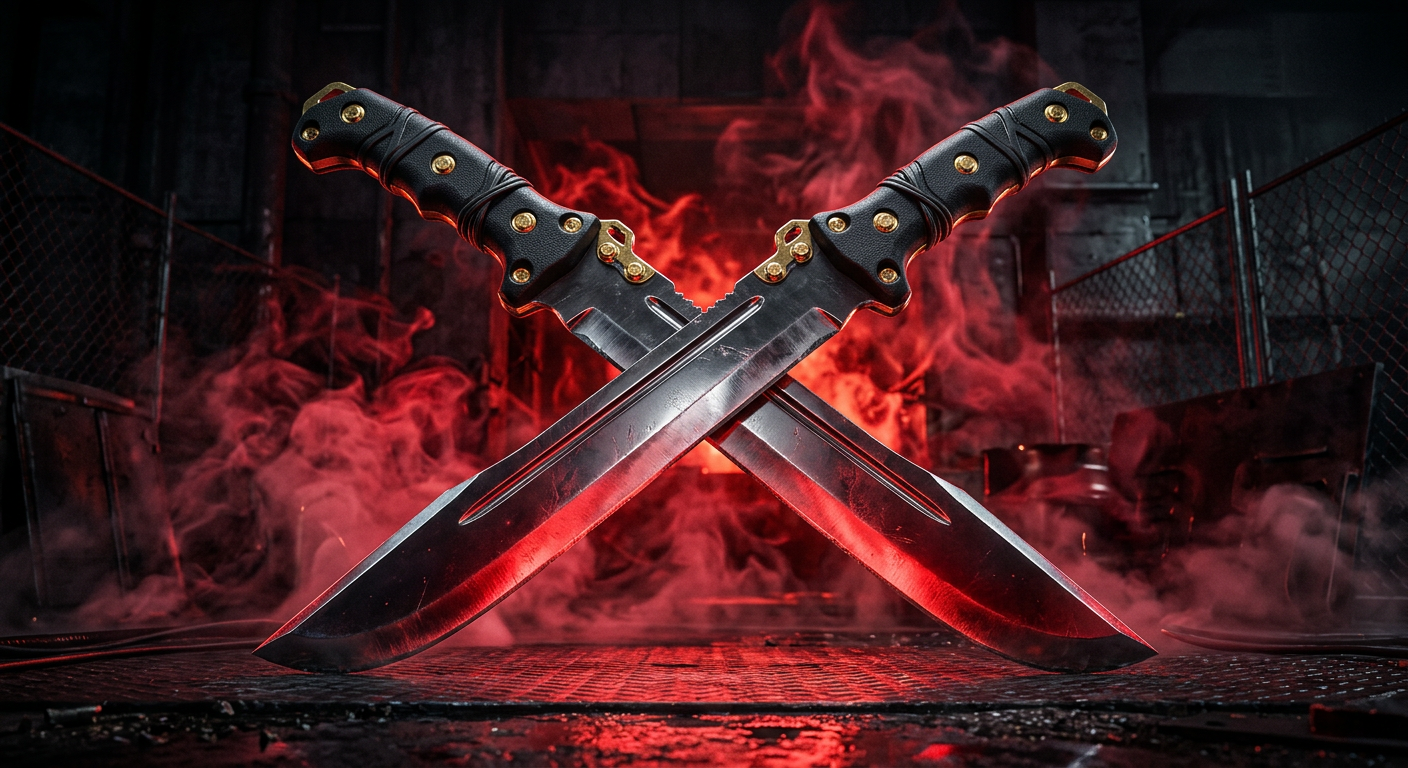
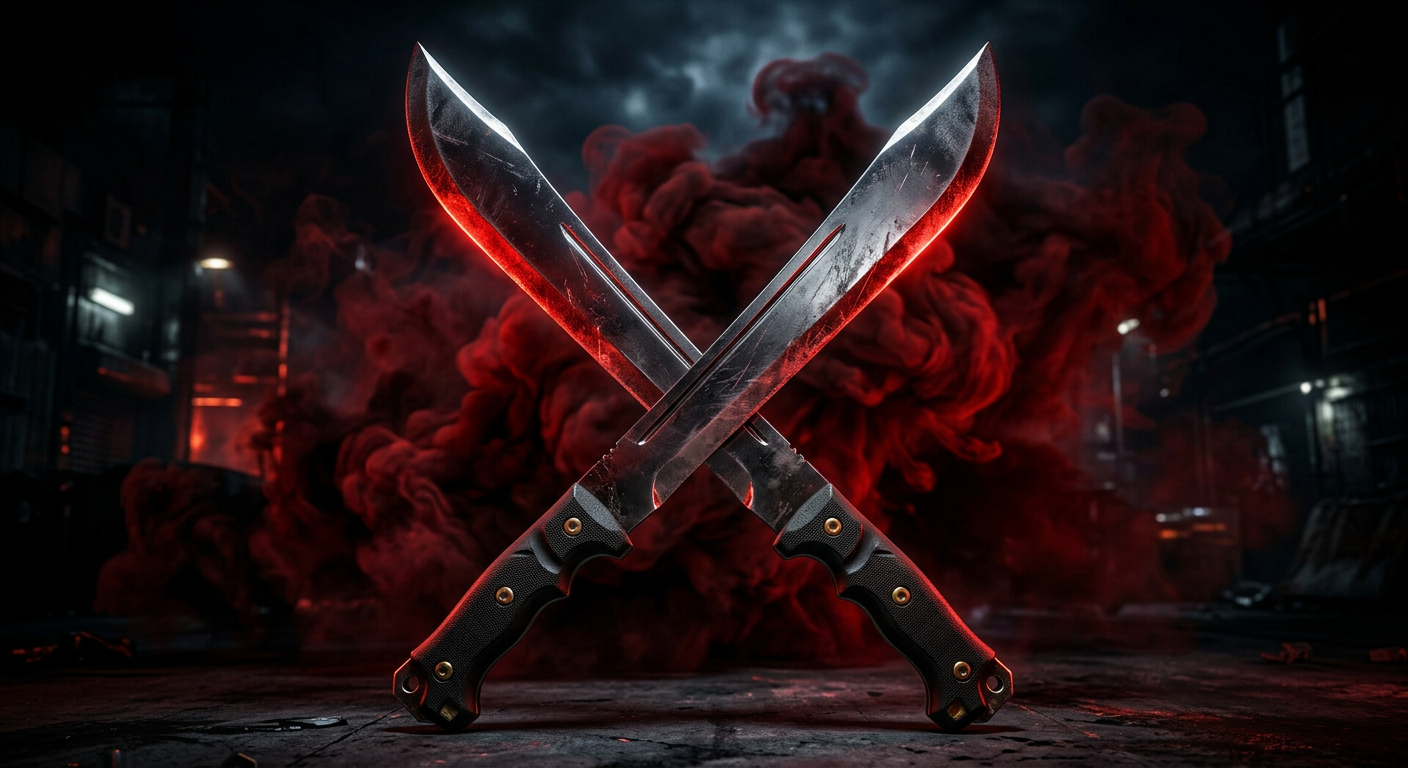
Fix affichage (compat AbortSignal.timeout) + machettes pointées vers le ciel

diff --git a/src/lib/live.ts b/src/lib/live.ts
@@ -11,6 +11,23 @@ import { useEffect, useRef, useState } from 'react';
 export const DEEZER_ARTIST_ID = 11736133; // Himra (officiel) — 85 albums/singles
 export const YT_CHANNEL_ID = 'UCck5J0M6YKnXCrnuXkCFuvw'; // Himra officiel — chaîne vérifiée
 
+// ---------- Compat : AbortSignal.timeout n'existe pas sur tous les navigateurs ----------
+function safeTimeoutSignal(ms: number): AbortSignal | undefined {
+  try {
+    if (typeof AbortSignal !== 'undefined' && 'timeout' in AbortSignal) {
+      return AbortSignal.timeout(ms);
+    }
+    if (typeof AbortController !== 'undefined') {
+      const c = new AbortController();
+      window.setTimeout(() => c.abort(), ms);
+      return c.signal;
+    }
+  } catch {
+    // ignore — pas de signal, le fetch utilisera son timeout réseau natif
+  }
+  return undefined;
+}
+
 // ---------- JSONP helper (Deezer) ----------
 let jsonpCounter = 0;
 export function jsonp<T>(url: string, timeout = 9000): Promise<T> {
@@ -131,7 +148,7 @@ export function useYouTubeStats(videoIds: string[]) {
       ids.map(async (id) => {
         const r = await fetch(
           `https://returnyoutubedislikeapi.com/votes?videoId=${id}`,
-          { signal: AbortSignal.timeout(9000) }
+          { signal: safeTimeoutSignal(9000) }
         );
         if (!r.ok) throw new Error('bad status');
         const j = await r.json();
@@ -174,7 +191,7 @@ export function useLatestVideos(fallback: LatestVideo[]) {
     (async () => {
       for (const proxy of PROXIES) {
         try {
-          const r = await fetch(proxy(RSS_URL), { signal: AbortSignal.timeout(12000) });
+          const r = await fetch(proxy(RSS_URL), { signal: safeTimeoutSignal(12000) });
           if (!r.ok) continue;
           const xml = await r.text();
           const doc = new DOMParser().parseFromString(xml, 'text/xml');
